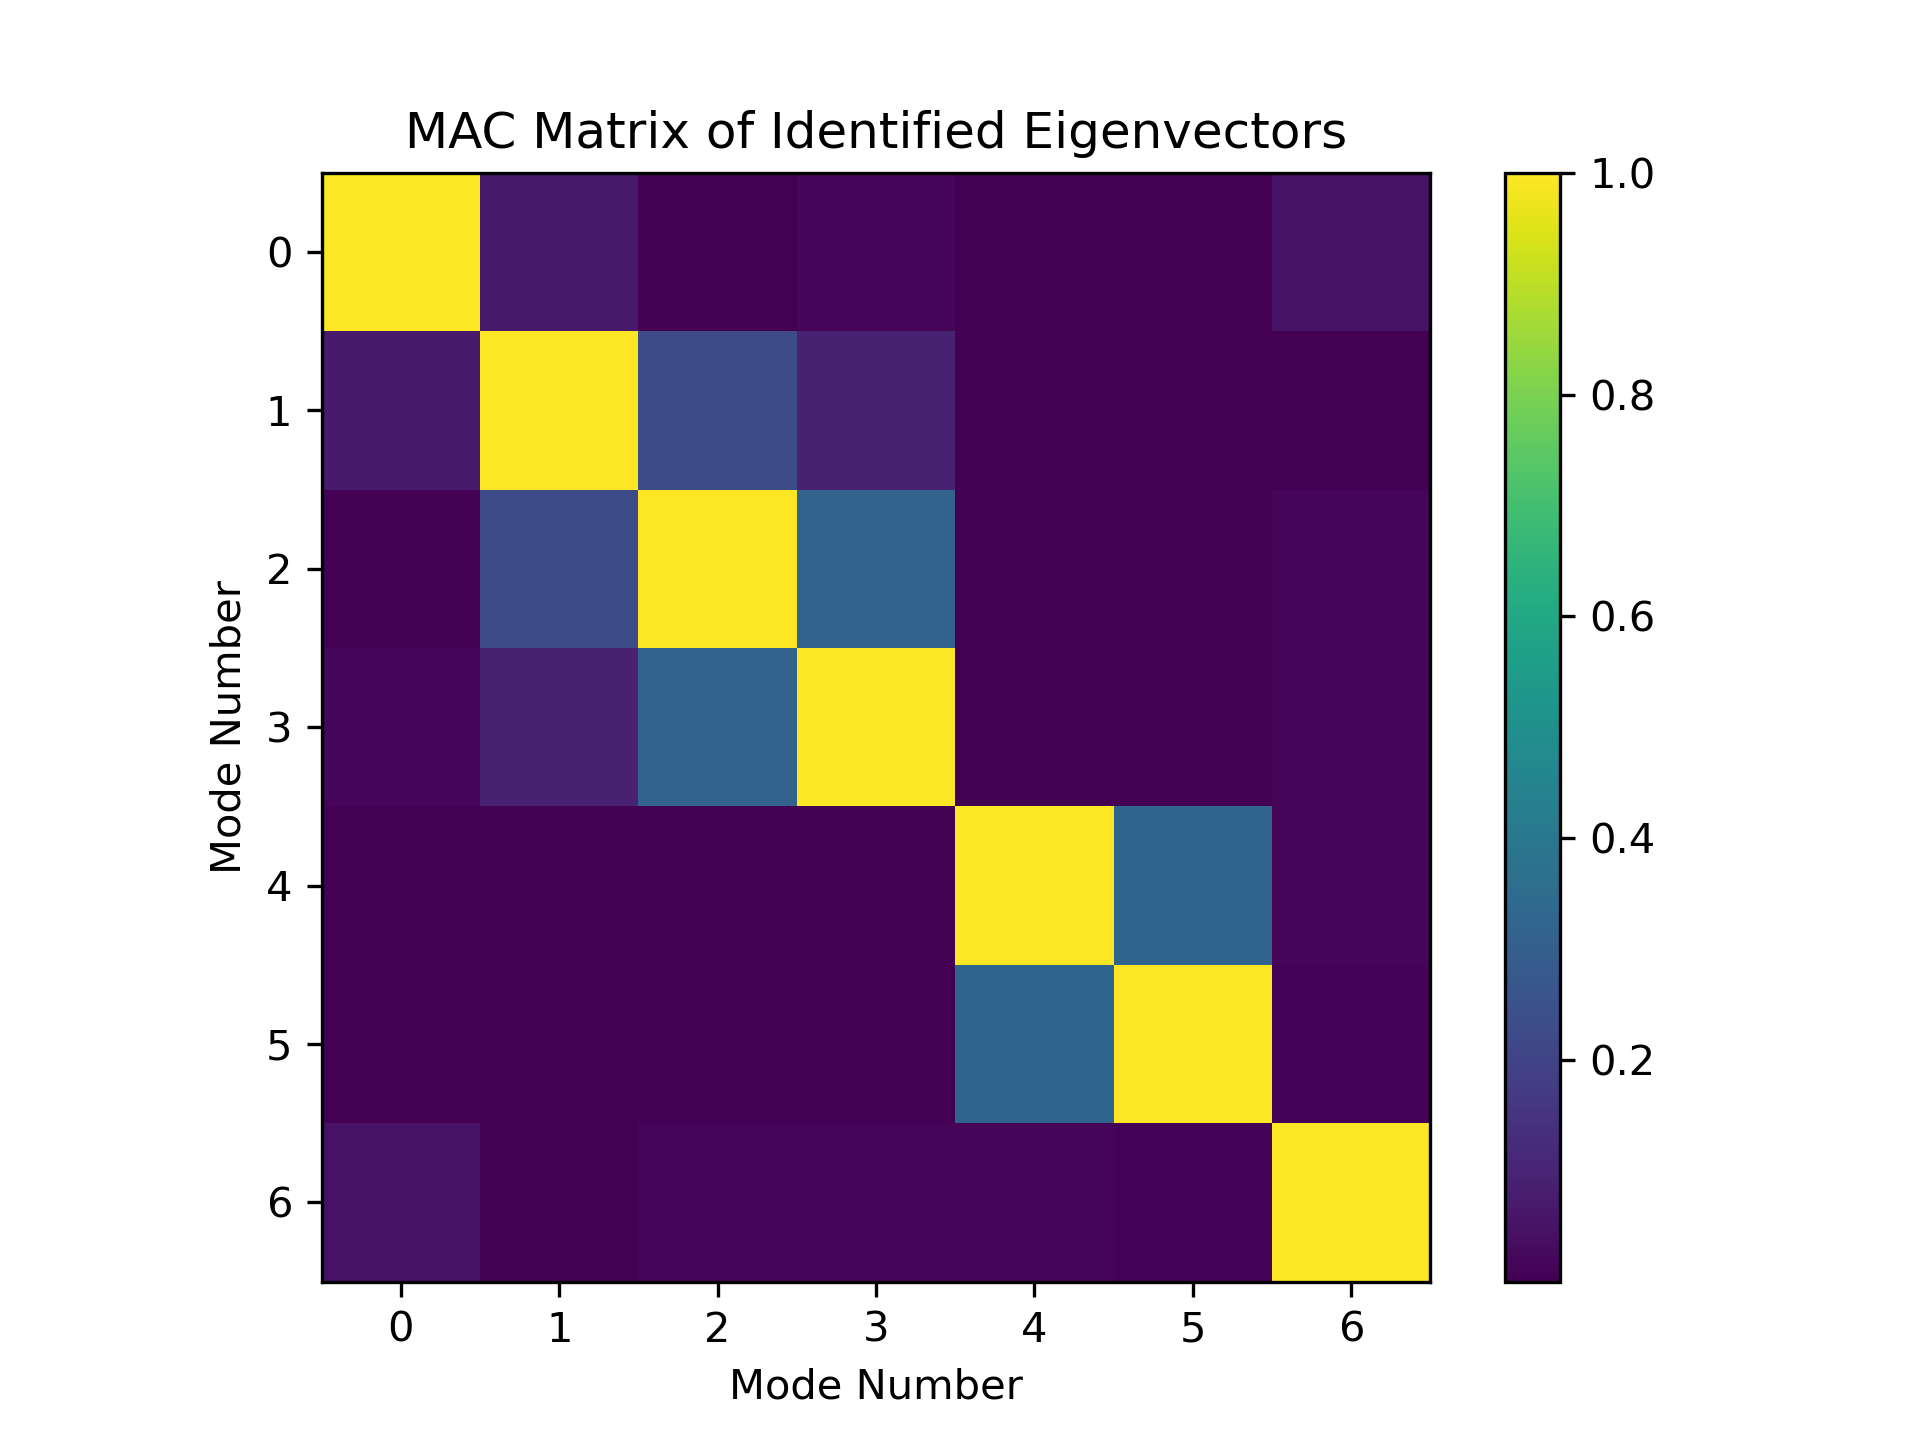
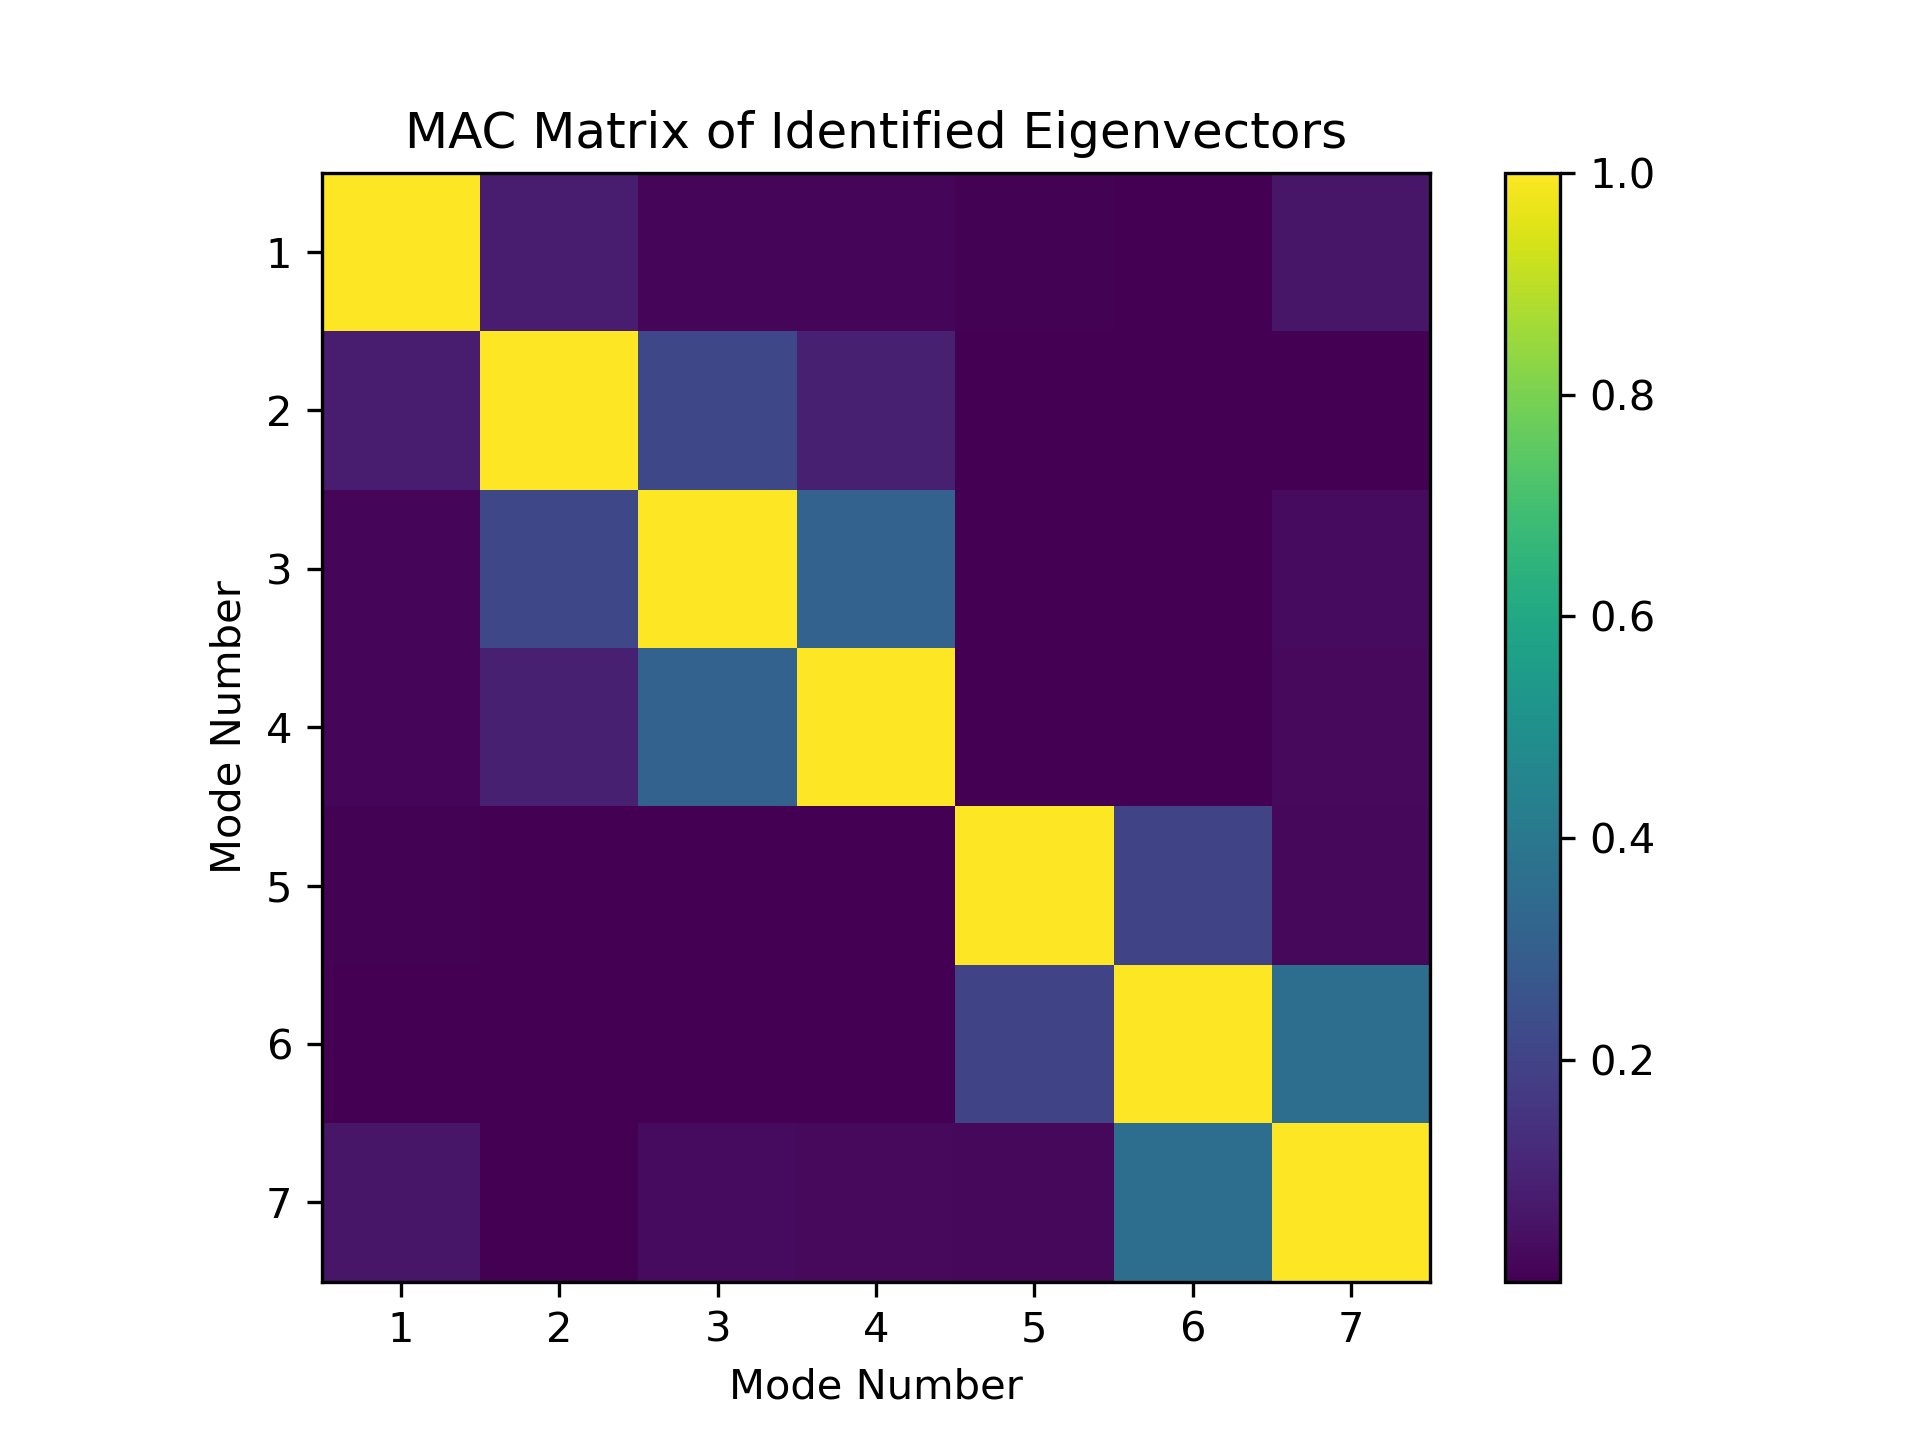
all push

diff --git a/vibration_of_building/FE_model.py b/vibration_of_building/FE_model.py
@@ -215,7 +215,7 @@ e_all = np.vstack((e_coll, e_colr, e_fl1, e_fl2))
 n_elem = e_all.shape[0]
 
 # Plot structure (Structure with nodes and element indices)
-plt.figure(figsize=(8,16))
+plt.figure(figsize=(12, 12))
 overlapping_nodes = {}
 for i in range(nNode):
     coord = (Nodes[i, 1], Nodes[i, 2])
@@ -243,6 +243,7 @@ plt.xlabel('x-coordinate')
 plt.ylabel('y-Coordinate')
 plt.title('Structure with nodes and element Indices')
 plt.grid()
+plt.savefig('vibration_of_building/figures/Structure_with_nodes_and_element_Indices.png', dpi=300)
 plt.show()
 
 # ---------------------------------------- Boundary conditions and DOFs ----------------------------------------- #
